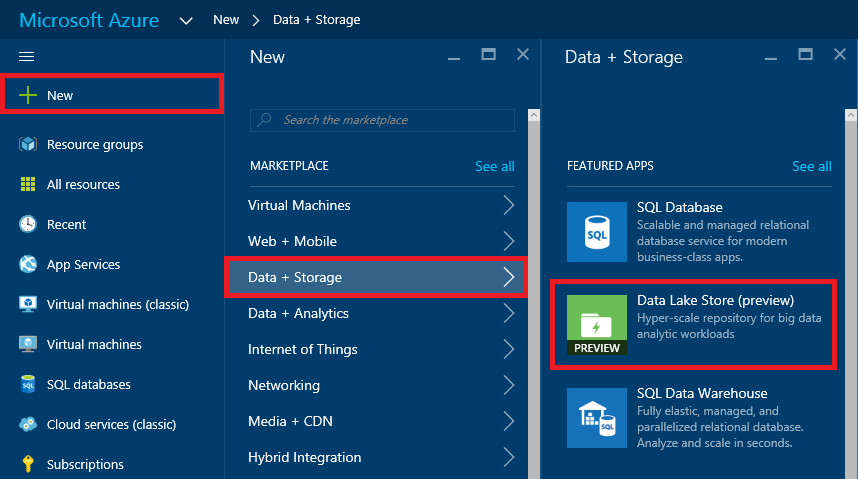
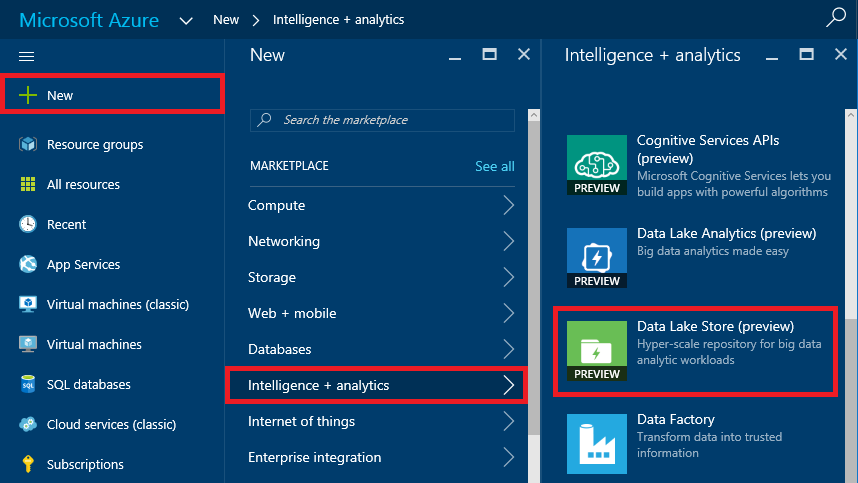
Updated screen shots in Data Lake lab

diff --git a/Content/Data Lake/Azure Data Lake HOL.md b/Content/Data Lake/Azure Data Lake HOL.md
@@ -52,7 +52,7 @@ The starting point for using Azure Data Lake is setting up an Azure Data Lake St
 
 1. In your browser, navigate to the [Azure Portal](https://portal.azure.com). If you're asked to sign in, do so using your Microsoft account.
 
-1. In the portal, click **+ New -> Data + Storage -> Data Lake Store (preview)**.
+1. In the portal, click **+ New -> Intelligence + analytics -> Data Lake Store (preview)**.
 
     ![Adding a new Data Lake Store](Images/new-data-lake-store.png)
 
@@ -85,7 +85,7 @@ Now that you have created a Data Lake Store, the next step is to create a Data L
 
 Azure Data Lake formally separates the concepts of storing data and querying data. This allows Azure Data Lake Analytics to operate against a range of possible data sources contained in an Azure Data Lake Store. In this exercise, you will create a Data Lake Analytics account and connect it to the Data Lake Store you created in Exercise 1.
 
-1. In the portal, click **+ New -> Data + Analytics -> Data Lake Analytics (preview)**.
+1. In the portal, click **+ New -> Intelligence + analytics -> Data Lake Analytics (preview)**.
 
     ![Adding a new Data Lake Analytics account](Images/new-data-lake-analytics.png)
 
@@ -224,7 +224,7 @@ Enabling federated queries will require a series of steps:
 
 Let's get started!
 
-1. In the Azure Portal, click **+ New -> Data + Storage -> Storage account**.
+1. In the Azure Portal, click **+ New -> Storage -> Storage account**.
 
     ![Adding a storage account](Images/new-storage-account.png)
 
